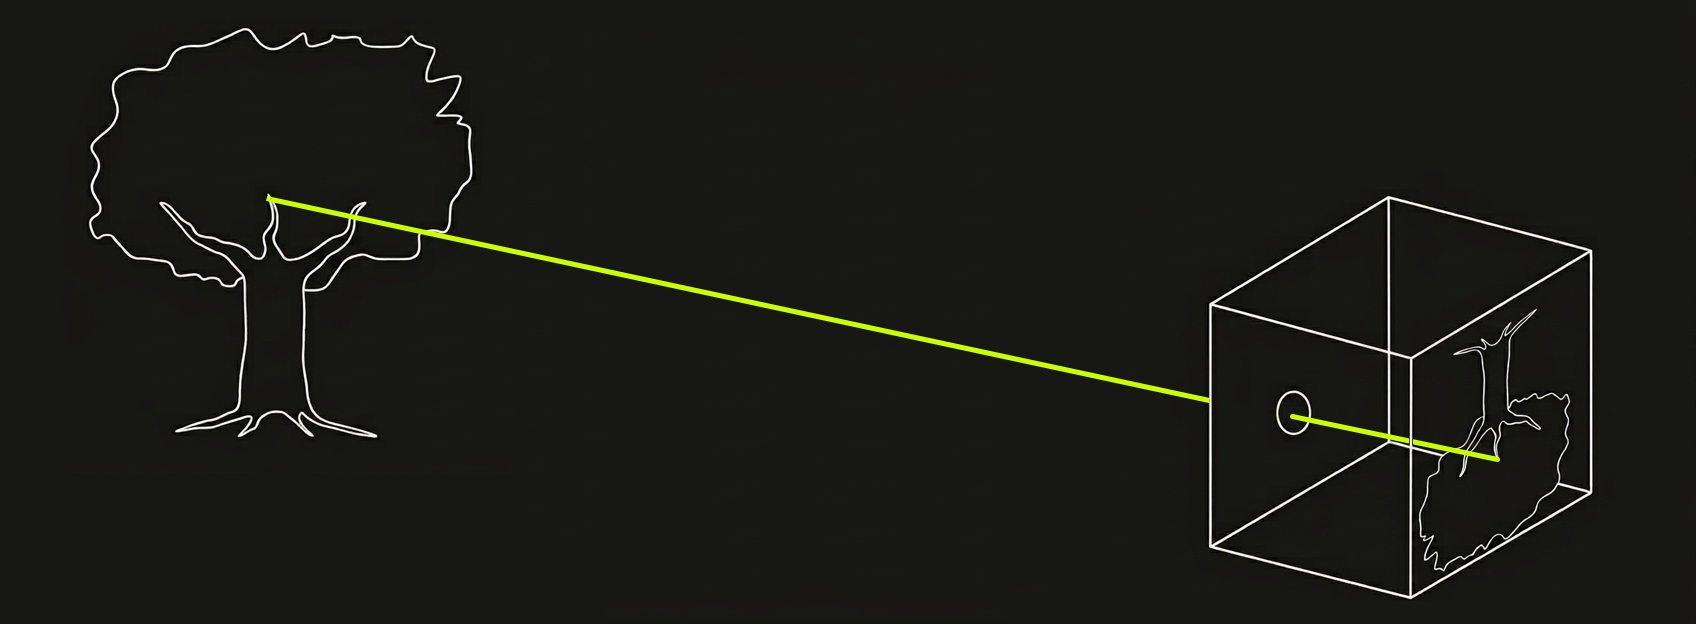
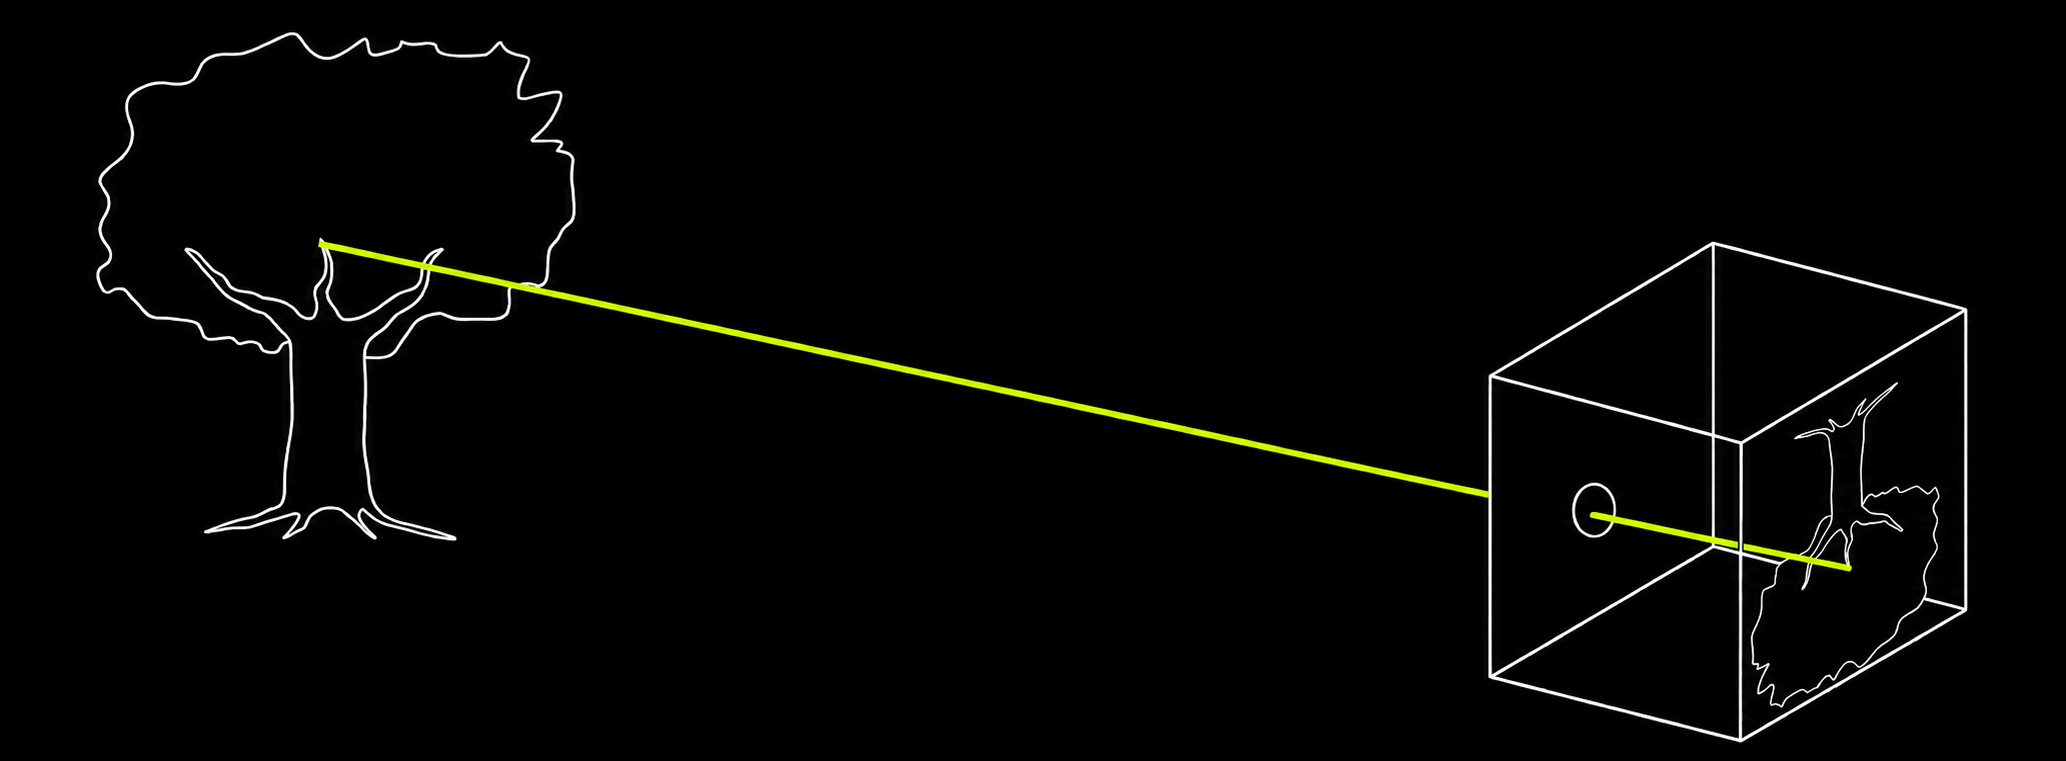
Use black Perspective Projection teaser

diff --git a/docs/index.html b/docs/index.html
@@ -32,7 +32,7 @@
     <a class="visualization-card" href="https://csprofkgd.github.io/parallel-stereo-visualization/" target="_blank" rel="noreferrer"><div class="image-link"><img class="teaser-image" src="./teasers/parallel-stereo-dark.png?v=20260826-binocular" alt="Parallel Stereo teaser"></div><div class="card-copy"><div><p class="category">Projective Geometry</p><h3>Parallel Stereo</h3><p class="description">Two views. One point. One matching scanline.</p></div></div></a>
     <a class="visualization-card" href="https://csprofkgd.github.io/epipolar-geometry-visualization/" target="_blank" rel="noreferrer"><div class="image-link"><img class="teaser-image" src="./teasers/epipolar-geometry-dark.png" alt="Epipolar Geometry teaser"></div><div class="card-copy"><div><p class="category">Projective Geometry</p><h3>Epipolar Geometry</h3><p class="description">The geometry behind stereo vision.</p></div></div></a>
     <a class="visualization-card" href="https://csprofkgd.github.io/planar-homography-lab/" target="_blank" rel="noreferrer"><div class="image-link"><img class="teaser-image" src="./teasers/planar-homography-dark.png" alt="Planar Homography teaser"></div><div class="card-copy"><div><p class="category">Projective Geometry</p><h3>Planar Homography</h3><p class="description">Plane-to-plane projective mapping.</p></div></div></a>
-    <a class="visualization-card" href="https://csprofkgd.github.io/perspective-projection/" target="_blank" rel="noreferrer"><div class="image-link"><img class="teaser-image" src="./teasers/perspective-projection-dark.png?v=20260826-gemini" alt="Perspective Projection teaser"></div><div class="card-copy"><div><p class="category">Projective Geometry</p><h3>Perspective Projection</h3><p class="description">One point. One ray. One image.</p></div></div></a>
+    <a class="visualization-card" href="https://csprofkgd.github.io/perspective-projection/" target="_blank" rel="noreferrer"><div class="image-link"><img class="teaser-image" src="./teasers/perspective-projection-dark.png?v=20260826-pp-black" alt="Perspective Projection teaser"></div><div class="card-copy"><div><p class="category">Projective Geometry</p><h3>Perspective Projection</h3><p class="description">One point. One ray. One image.</p></div></div></a>
     <a class="visualization-card" href="https://drive.google.com/file/d/1170Cbv73a7XmUNXWXli-rCGe7KW_KXXF/view?usp=share_link" target="_blank" rel="noreferrer"><div class="image-link"><img class="teaser-image" src="./teasers/convolution-dark.png" alt="Correlation teaser"></div><div class="card-copy"><div><p class="category">Signal Processing</p><h3>Correlation (aka &quot;Convolution&quot;)</h3><p class="description">Slide. Pointwise multiply. Sum. Repeat.</p></div></div></a>
   </section>
   <section class="instructor-section" aria-label="About Kosta Derpanis"><aside class="instructor-card"><img class="instructor-portrait" src="./KGD-profile.png" alt="Illustrated portrait of Kosta Derpanis"><div class="instructor-copy"><p class="instructor-label">Your Tour Guide</p><h2>Kosta Derpanis</h2><p>Associate Professor<br>York University</p><div class="instructor-links"><a href="https://csprofkgd.github.io" target="_blank" rel="noreferrer" aria-label="Homepage">⌂</a><a href="mailto:kosta@yorku.ca" aria-label="Email">✉</a><a href="https://x.com/CSProfKGD" target="_blank" rel="noreferrer" aria-label="X">𝕏</a><a href="https://www.linkedin.com/in/kosta-derpanis-a07824122/" target="_blank" rel="noreferrer" aria-label="LinkedIn">in</a></div></div></aside></section>

diff --git a/app/page.tsx b/app/page.tsx
@@ -102,7 +102,7 @@ const visualizations: Visualization[] = [
   },
 ];
 
-const TEASER_ASSET_VERSION = "20260826-gemini-perspective-projection";
+const TEASER_ASSET_VERSION = "20260826-pp-black-perspective-projection";
 
 export default function Home() {
   const [theme, setTheme] = useState<Theme>("dark");

diff --git a/context.md b/context.md
@@ -24,7 +24,7 @@ Updated: 2026-08-26
 
 ## Accepted content and replacements
 
-- Perspective Projection: use the user-supplied `Gemini_Generated_Image_ahfuv7ahfuv7ahfu.png`, normalized to the shared 1672×625 teaser canvas and used identically in light and dark modes.
+- Perspective Projection: use the user-supplied `/Users/kosta/Downloads/PP_black.png`, normalized to the shared 1672×625 teaser canvas and used identically in light and dark modes.
 - Sphere to Cubemap and Sphere to Equirectangular Projection: use the outpainted compositions with black background at every raster edge and modest breathing room around the complete globe and mapping diagram. Preserve every legitimate cyan latitude/longitude arc and every cyan cubemap/ERP segment outline. Remove the orange/coral vertical meridian and all associated glow from both representations.
 - Parallel Stereo: use the user-supplied `/Users/kosta/Downloads/binocular.png` raster, already at the shared 1672×625 canvas, identically for both dark and light teaser assets.
 - Stereo Rectification uses the user-supplied final raster `codex-clipboard-f95718d9-d220-469a-b67a-32e735d792ae.png` for both dark and light teaser assets. Epipolar Geometry, Local Minimum, and Parallel Stereo use outpainted compositions with black background at every raster edge and breathing room around all cameras, points, surfaces, paths, and image planes.
